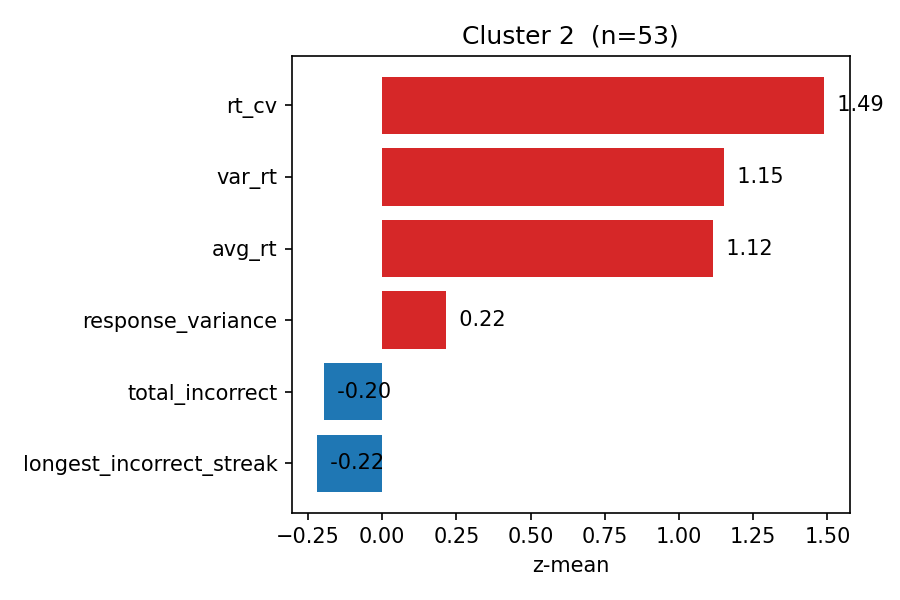
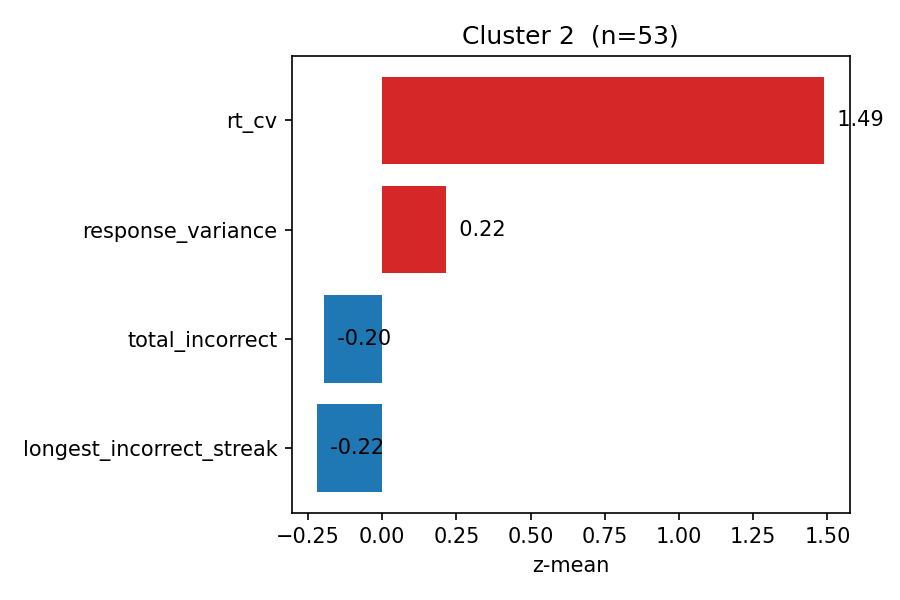
added changes for not showing tech indicator not needed

diff --git a/cluster_knowledge_trajectories.py b/cluster_knowledge_trajectories.py
@@ -452,9 +452,29 @@ def _save_cluster_cards(feats: pd.DataFrame, feature_cols: list, labels: np.ndar
     zmean = z.join(df[label_name]).groupby(label_name)[feature_cols].mean().sort_index()
     means = df.groupby(label_name)[feature_cols].mean().sort_index()
     counts = df[label_name].value_counts().sort_index()
+    equivalent_feature_groups = {
+        "accuracy_level": {"total_correct", "total_incorrect", "accuracy"},
+        "correctness_dynamics": {"longest_correct_streak", "longest_incorrect_streak", "consecutive_correct_rate"},
+        "response_time": {"avg_rt", "var_rt", "rt_cv"},
+    }
+    feature_to_group = {}
+    for g, cols in equivalent_feature_groups.items():
+        for c in cols:
+            if c in feature_cols:
+                feature_to_group[c] = g
     for k in zmean.index:
         ser = zmean.loc[k].abs().sort_values(ascending=False)
-        feat = ser.index[:top_n]
+        selected = []
+        used_groups = set()
+        for f in ser.index:
+            g = feature_to_group.get(f, f)
+            if g in used_groups:
+                continue
+            selected.append(f)
+            used_groups.add(g)
+            if len(selected) >= top_n:
+                break
+        feat = selected
         zvals = zmean.loc[k, feat].sort_values()
         fig, ax = plt.subplots(figsize=(6, 4))
         ax.barh(zvals.index, zvals.values, color=["#d62728" if v>0 else "#1f77b4" for v in zmean.loc[k, zvals.index].values])
